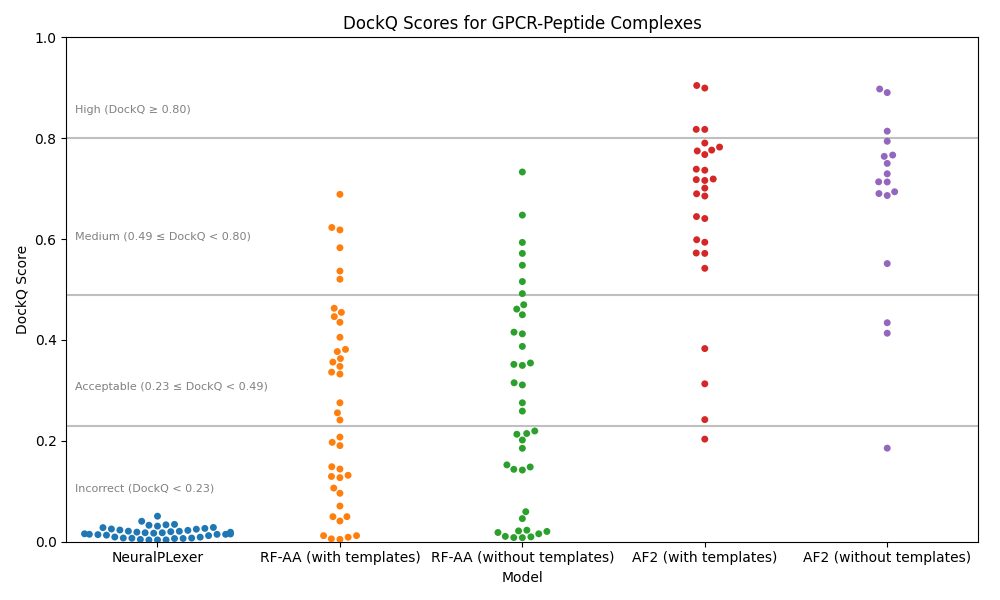
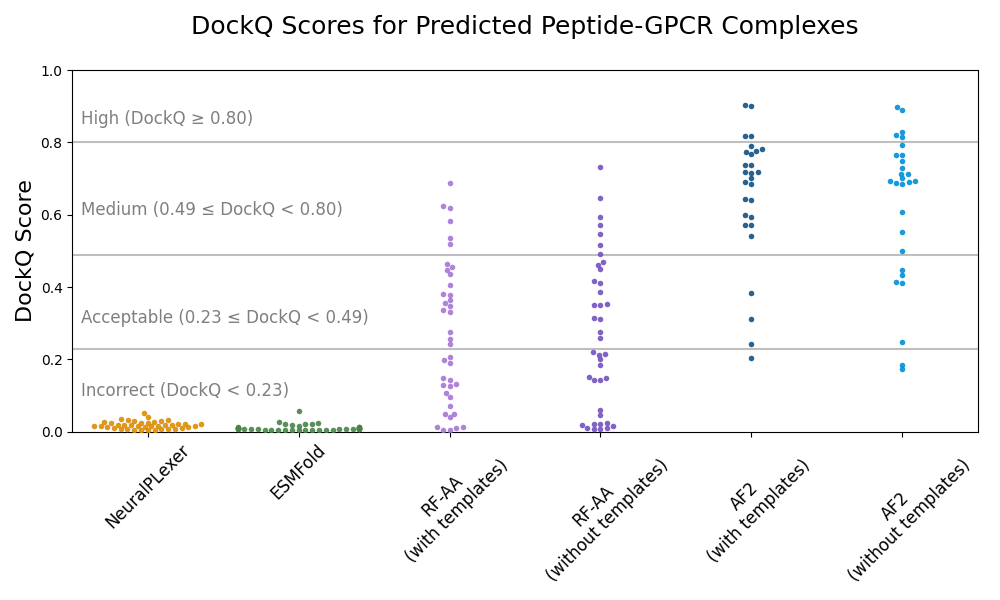
Improved plot

diff --git a/structure_benchmark_data/performance_evaluation.py b/structure_benchmark_data/performance_evaluation.py
@@ -14,47 +14,35 @@ dockq_path = "/projects/ilfgrid/people/pqh443/Git_projects/GPRC_peptide_benchmar
 data = pd.read_csv(dockq_path)
 
 # Rename RFAA_no_templates to RF-AA (without templates)
-data["model"] = data["model"].replace("RFAA_no_templates", "RF-AA (without templates)")
-data["model"] = data["model"].replace("RFAA", "RF-AA (with templates)")
-data["model"] = data["model"].replace("AF2", "AF2 (with templates)")
-data["model"] = data["model"].replace("AF2_no_templates", "AF2 (without templates)")
-
-# Calculating the means and standard deviations again to ensure clarity in this step
-means = data.groupby('model')['DockQ'].mean()
-stds = data.groupby('model')['DockQ'].std()
-models = means.index
+data["model"] = data["model"].replace("RFAA_no_templates", "RF-AA\n(without templates)")
+data["model"] = data["model"].replace("RFAA", "RF-AA\n(with templates)")
+data["model"] = data["model"].replace("AF2", "AF2\n(with templates)")
+data["model"] = data["model"].replace("AF2_no_templates", "AF2\n(without templates)")
 
 # Plotting
 fig, ax = plt.subplots(figsize=(10, 6))
-ax.bar(models, means, yerr=stds, capsize=4)
-ax.set_xlabel('Model')
-ax.set_ylabel('DockQ Score (Mean ± SD)')
-ax.set_title('DockQ Scores for GPCR-Peptide Complexes')
 
-# Add horizontal lines showing prediction quality
-ax.axhline(0.23, color='grey', linestyle='-', alpha = 0.5)
-ax.axhline(0.49, color='grey', linestyle='-', alpha = 0.5)
-ax.axhline(0.80, color='grey', linestyle='-', alpha = 0.5)
+# Color the points based on model
+colors = {
+    'NeuralPLexer' : "#dc8c03",
+    'ESMFold': "#478347",
+    'RF-AA\n(with templates)': '#a676d6', 
+    'RF-AA\n(without templates)': '#7352bf', 
+    'AF2\n(with templates)': '#115185', 
+    'AF2\n(without templates)': '#008fd7',
+} 
 
-text_size = 8
-ax.text(0.01, 0.10, 'Incorrect (DockQ < 0.23)', color='grey', fontsize=text_size, transform=ax.transAxes)
-ax.text(0.01, 0.30, 'Acceptable (0.23 ≤ DockQ < 0.49)', color='grey', fontsize=text_size, transform=ax.transAxes)
-ax.text(0.01, 0.60, 'Medium (0.49 ≤ DockQ < 0.80)', color='grey', fontsize=text_size, transform=ax.transAxes)
-ax.text(0.01, 0.85, 'High (DockQ ≥ 0.80)', color='grey', fontsize=text_size, transform=ax.transAxes)
+data = data.sort_values(by='model', key=lambda x: pd.Categorical(x, categories=list(colors.keys()), ordered=True))
+print(data.head())
 
-# Set limit from 0,1 to y axis
-ax.set_ylim(0, 1)
-ax.set_xticklabels(models, rotation=0, ha="center")
-
-plt.tight_layout()
-plt.savefig("DockQ_scores.png")
-
-
-# Plotting
-fig, ax = plt.subplots(figsize=(10, 6))
+# Reset index
+data = data.reset_index(drop=True)
 
 # Creating a swarm plot
-sns.swarmplot(x='model', y='DockQ', data=data, ax=ax)
+sns.swarmplot(x='model', y='DockQ', data=data, ax=ax, size=4, alpha=0.9, palette=colors.values(), order = list(colors.keys()))
+
+for i, model in enumerate(list(colors.keys())):
+    ax.get_children()[i].set_color(colors[model])
 
 # Add horizontal lines showing prediction quality
 ax.axhline(0.23, color='grey', linestyle='-', alpha = 0.5)
@@ -62,20 +50,21 @@ ax.axhline(0.49, color='grey', linestyle='-', alpha = 0.5)
 ax.axhline(0.80, color='grey', linestyle='-', alpha = 0.5)
 
 # Add text annotations using axes fraction coordinates
-text_size = 8
-ax.text(0.01, 0.10, 'Incorrect (DockQ < 0.23)', color='grey', fontsize=text_size, transform=ax.transAxes)
-ax.text(0.01, 0.30, 'Acceptable (0.23 ≤ DockQ < 0.49)', color='grey', fontsize=text_size, transform=ax.transAxes)
-ax.text(0.01, 0.60, 'Medium (0.49 ≤ DockQ < 0.80)', color='grey', fontsize=text_size, transform=ax.transAxes)
-ax.text(0.01, 0.85, 'High (DockQ ≥ 0.80)', color='grey', fontsize=text_size, transform=ax.transAxes)
+text_size = 12
+ax.text(0.01, 0.10, 'Incorrect (DockQ < 0.23)', color='black', fontsize=text_size, transform=ax.transAxes, alpha = 0.5)
+ax.text(0.01, 0.30, 'Acceptable (0.23 ≤ DockQ < 0.49)', color='black', fontsize=text_size, transform=ax.transAxes, alpha = 0.5)
+ax.text(0.01, 0.60, 'Medium (0.49 ≤ DockQ < 0.80)', color='black', fontsize=text_size, transform=ax.transAxes, alpha = 0.5)
+ax.text(0.01, 0.85, 'High (DockQ ≥ 0.80)', color='black', fontsize=text_size, transform=ax.transAxes, alpha = 0.5)
 
 # Set y-axis limit
 ax.set_ylim(0, 1)
 
 # Set labels and title
-ax.set_xlabel('Model')
-ax.set_ylabel('DockQ Score')
-ax.set_title('DockQ Scores for GPCR-Peptide Complexes')
-plt.xticks(rotation=0, ha="center")
+ax.set_xlabel('', fontsize=0)
+ax.set_ylabel('DockQ Score', fontsize=16)
+ax.set_title('DockQ Scores for Predicted Peptide-GPCR Complexes\n', fontsize=18)
+ax.set_xticklabels(list(colors.keys()), rotation=45, ha="center", fontsize=12)
+
 
 plt.tight_layout()
 plt.savefig("DockQ_scores_swarm.png")

diff --git a/structure_benchmark_data/structure_evaluation.py b/structure_benchmark_data/structure_evaluation.py
@@ -349,7 +349,10 @@ def run_dockq_scoring(script_path, dockq_path, input_df, model_paths, output_fil
 
             # Remove renumbered and cleaned paths
             os.remove(renumbered_path)
-            os.remove(cleaned_path)
+            try:
+                os.remove(cleaned_path)
+            except FileNotFoundError:
+                pass
 
             # Run DockQ and save results into a dictionary
             try:
@@ -403,7 +406,8 @@ if __name__ == "__main__":
         "RFAA" : f"{repo_dir}/structure_benchmark/RFAA_chain",
         "RFAA_no_templates" : f"{repo_dir}/structure_benchmark/RFAA_chain_no_templates",
         "AF2" : f"{repo_dir}/structure_benchmark/AF2",
-        "AF2_no_templates" : f"{repo_dir}/structure_benchmark/AF2_no_templates"
+        "AF2_no_templates" : f"{repo_dir}/structure_benchmark/AF2_no_templates",
+        "ESMFold" : f"{repo_dir}/structure_benchmark/ESMFold"
     }
 
     # Output file path
